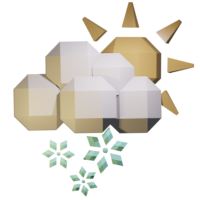
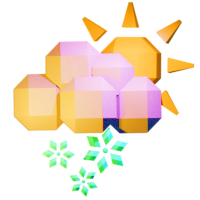
finish styling

diff --git a/src/styles.css b/src/styles.css
@@ -54,11 +54,11 @@ h1, h2, h3, h4, h5, h6 {
 /* main */
 * {
   --lightest: #ffffff;
-  --light: #f5ebd1;
-  --dark: #1e8d0a;
-  --darkest: #1f4e17;
-  --accent1: #ffd700;
-  --accent1-light: #ffea2c;
+  --light: #f8f0db;
+  --dark: #e8807d;
+  --darkest: #250454;
+  --accent1: #ffe559;
+  --accent1-light: #ffe819;
   --accent2: #e98274;
 
   --border: 3px solid var(--darkest);
@@ -142,7 +142,7 @@ form button:focus {
 }
 
 div.top button.change-unit {
-  background-color: var(--accent2);
+  background-color: var(--accent1);
   color: var(--darkest);
   padding: 10px 20px;
   outline: var(--border);
@@ -163,7 +163,7 @@ div.current-container {
 
 .current-container .current-img {
   width: min(500px, 90vw);
-  background-color: transparent;
+  background-color: var(--light);
   border: var(--border);
   display: flex;
 }
@@ -176,14 +176,14 @@ div.current-container {
   object-fit: cover; */
 
   /* for icon */
-  margin: auto;
+  margin: 0 auto;
   }
 
 .current-container .current {
   border: var(--border);
   padding: 20px;
   background-color: var(--dark);
-  color: var(--lightest);
+  color: var(--darkest);
   width: 100%;
 
   flex: 1;
@@ -222,7 +222,7 @@ div.bottom-containers {
   overflow-y: scroll;
 
   background-color: var(--dark);
-  color: var(--lightest);
+  color: var(--darkest);
   scrollbar-color: var(--accent1) var(--dark);
   border: var(--border);
 }
@@ -245,24 +245,32 @@ div.bottom-containers {
   justify-content: space-between;
 }
 
+.hour-info div {
+  display: flex;
+  flex-direction: column;
+  align-items: flex-end;  
+}
+
 .hour-info img {
   max-width: 75px;
-  background: var(--light);
+  background: var(--darkest);
   border-radius: 20px;
+  padding: 2px;
 }
 
 .hour-rain {
   display: flex;
   align-items: center;
+  
 }
 
 .hour-rain img {
   width: 2.5rem;
+  background: transparent;
 }
 
 .hour-rain span {
   margin-top: 4px;
-  margin-left: 5px;
 }
 
 .days-container {
@@ -293,9 +301,19 @@ div.bottom-containers {
 
 .day img {
   width: 65px;
-  background-color: var(--light);
+  background-color: var(--darkest);
   border-radius: 20px;
-  border: 2px solid;
+  padding: 2px;
+}
+
+.day-info {
+  display: flex;
+  flex-direction: column;
+  align-items: flex-end;  
+}
+
+.day-info p {
+  text-align: end;
 }
 
 .day-date {
@@ -309,11 +327,11 @@ div.bottom-containers {
 
 .day-rain img{
   width: 2.5rem;
+  background: transparent;
 }
 
 .day-rain span {
   margin-top: 5px;
-  margin-left: 5px;
 }
 
 

diff --git a/src/scripts/hoursDisplay.js b/src/scripts/hoursDisplay.js
@@ -9,19 +9,20 @@ export class HoursDisplay {
   async _getRainImg(rainImg) {
     const rainSrc = await import(`../png/umbrella.png`);
     rainImg.src = rainSrc.default;
+    rainImg.alt = "umbrella icon";
     return;
   }
 
   async _changeHourIcon(hour, hourIcon) {
     const newImage = await import(`../png/${hour.icon}.png`);
     hourIcon.src = newImage.default;
+    hourIcon.alt = `${hour.icon} icon`;
     return;
   }
 
   displayHours() {
-
-    while(this.hoursContainer.firstChild) {
-      this.hoursContainer.removeChild(this.hoursContainer.lastChild)
+    while (this.hoursContainer.firstChild) {
+      this.hoursContainer.removeChild(this.hoursContainer.lastChild);
     }
 
     this.hoursData.forEach((hour) => {

diff --git a/src/scripts/daysDisplay.js b/src/scripts/daysDisplay.js
@@ -9,12 +9,14 @@ export class DaysDisplay {
   async _getRainImg(rainImg) {
     const rainSrc = await import(`../png/umbrella.png`);
     rainImg.src = rainSrc.default;
+    rainImg.alt = "umbrella icon";
     return;
   }
 
   async _changedayIcon(day, dayIcon) {
     const newImage = await import(`../png/${day.icon}.png`);
     dayIcon.src = newImage.default;
+    dayIcon.alt = `${day.icon} icon`
     return;
   }
 

diff --git a/src/scripts/currentDisplay.js b/src/scripts/currentDisplay.js
@@ -18,6 +18,7 @@ export class CurrentDisplay {
   async _changeCurrentImg() {
     const newImage = await import(`../png/${this.currentData.icon}.png`);
     this.currentImg.src = newImage.default;
+    this.currentImg.alt = `${this.currentData.icon} icon`
     return;
   }
 
